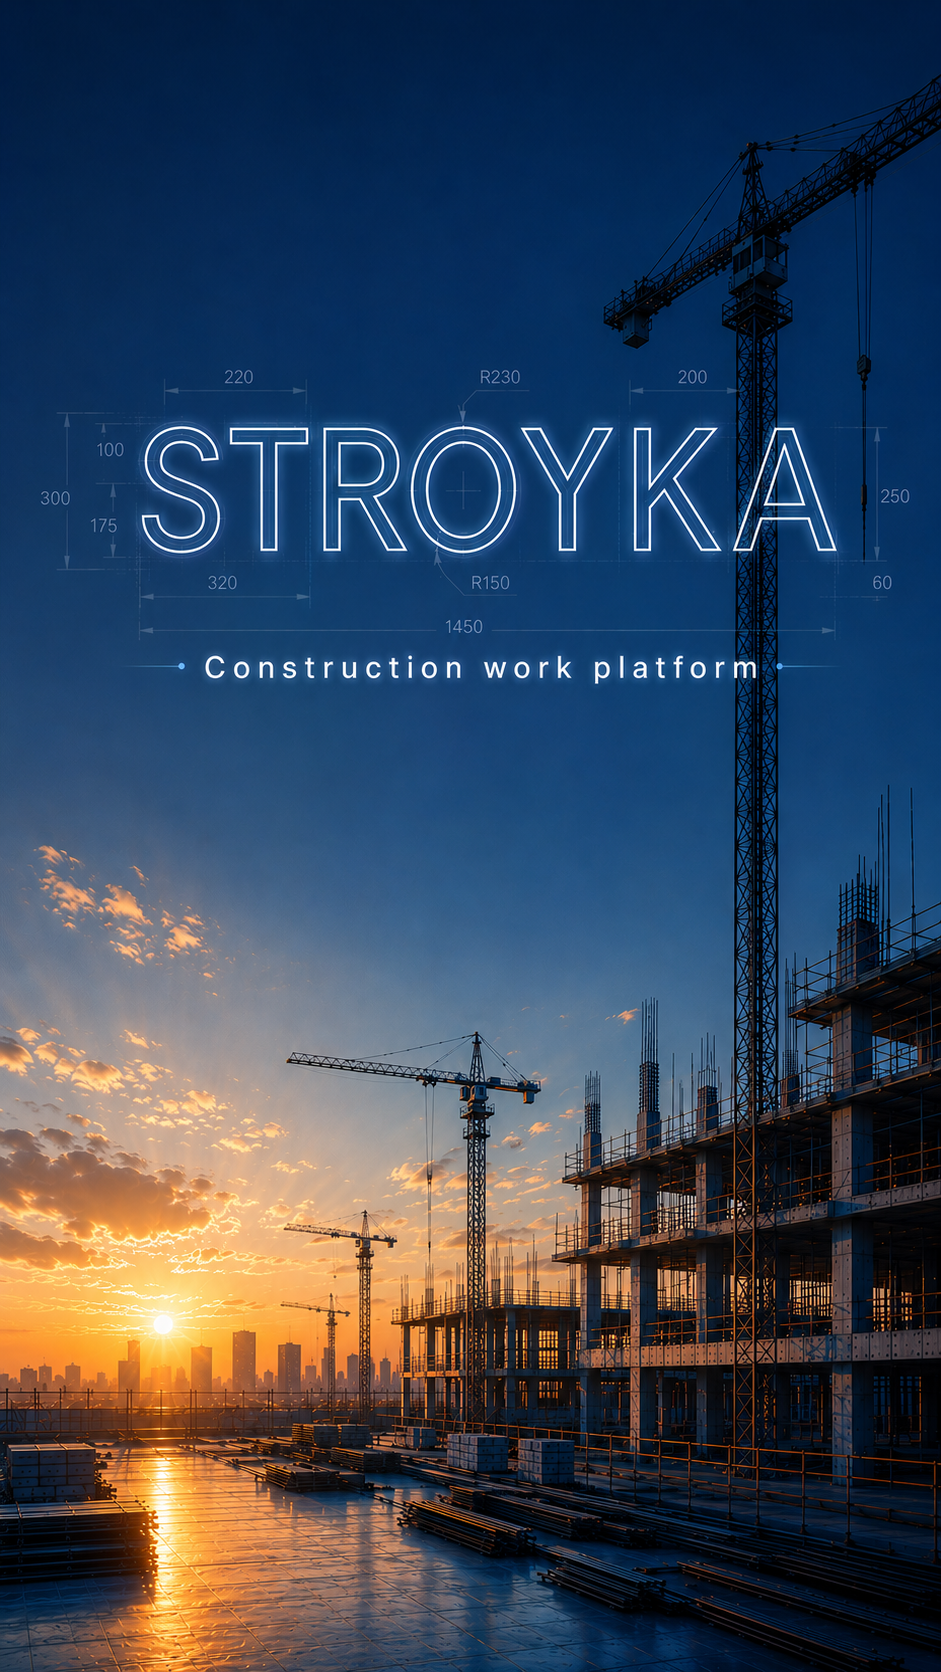
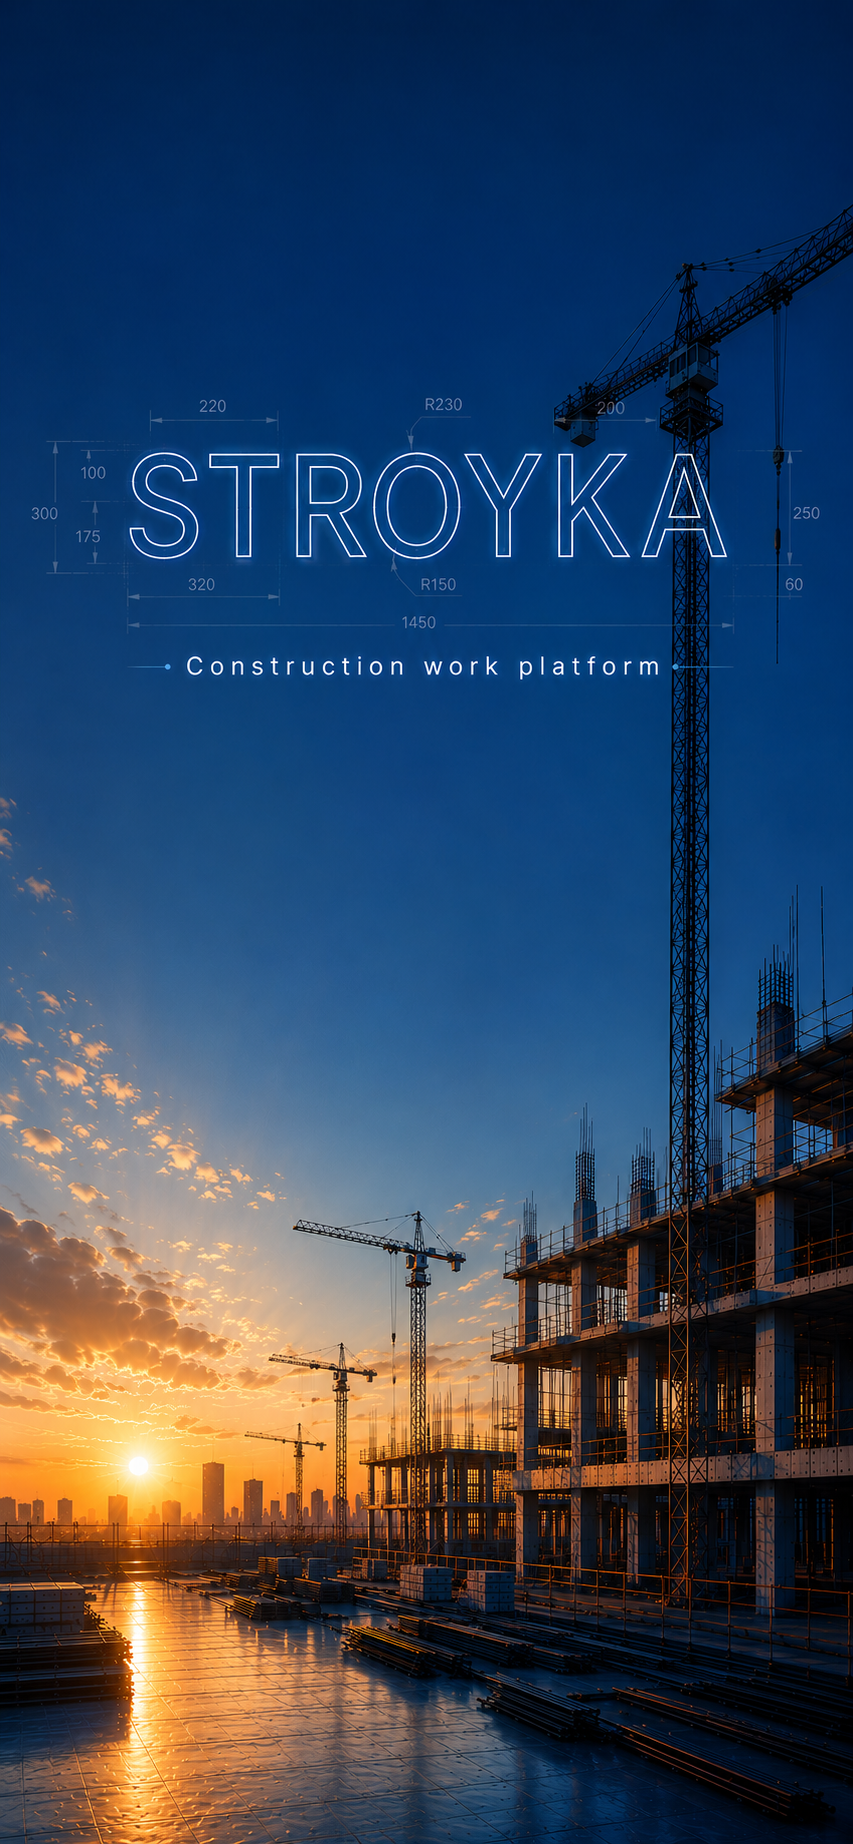
Update login background and lower form

diff --git a/lib/screens/login_screen.dart b/lib/screens/login_screen.dart
@@ -189,8 +189,8 @@ class _LoginScreenState extends State<LoginScreen> {
                     child: Column(
                       mainAxisAlignment: MainAxisAlignment.center,
                       children: [
-                        Transform.translate(
-                          offset: const Offset(0, 18),
+                        FractionalTranslation(
+                          translation: const Offset(0, 0.33),
                           child: StroykaSurface(
                             padding: const EdgeInsets.fromLTRB(20, 24, 20, 20),
                             texture: "assets/branding/texture_light_cloud.jpg",